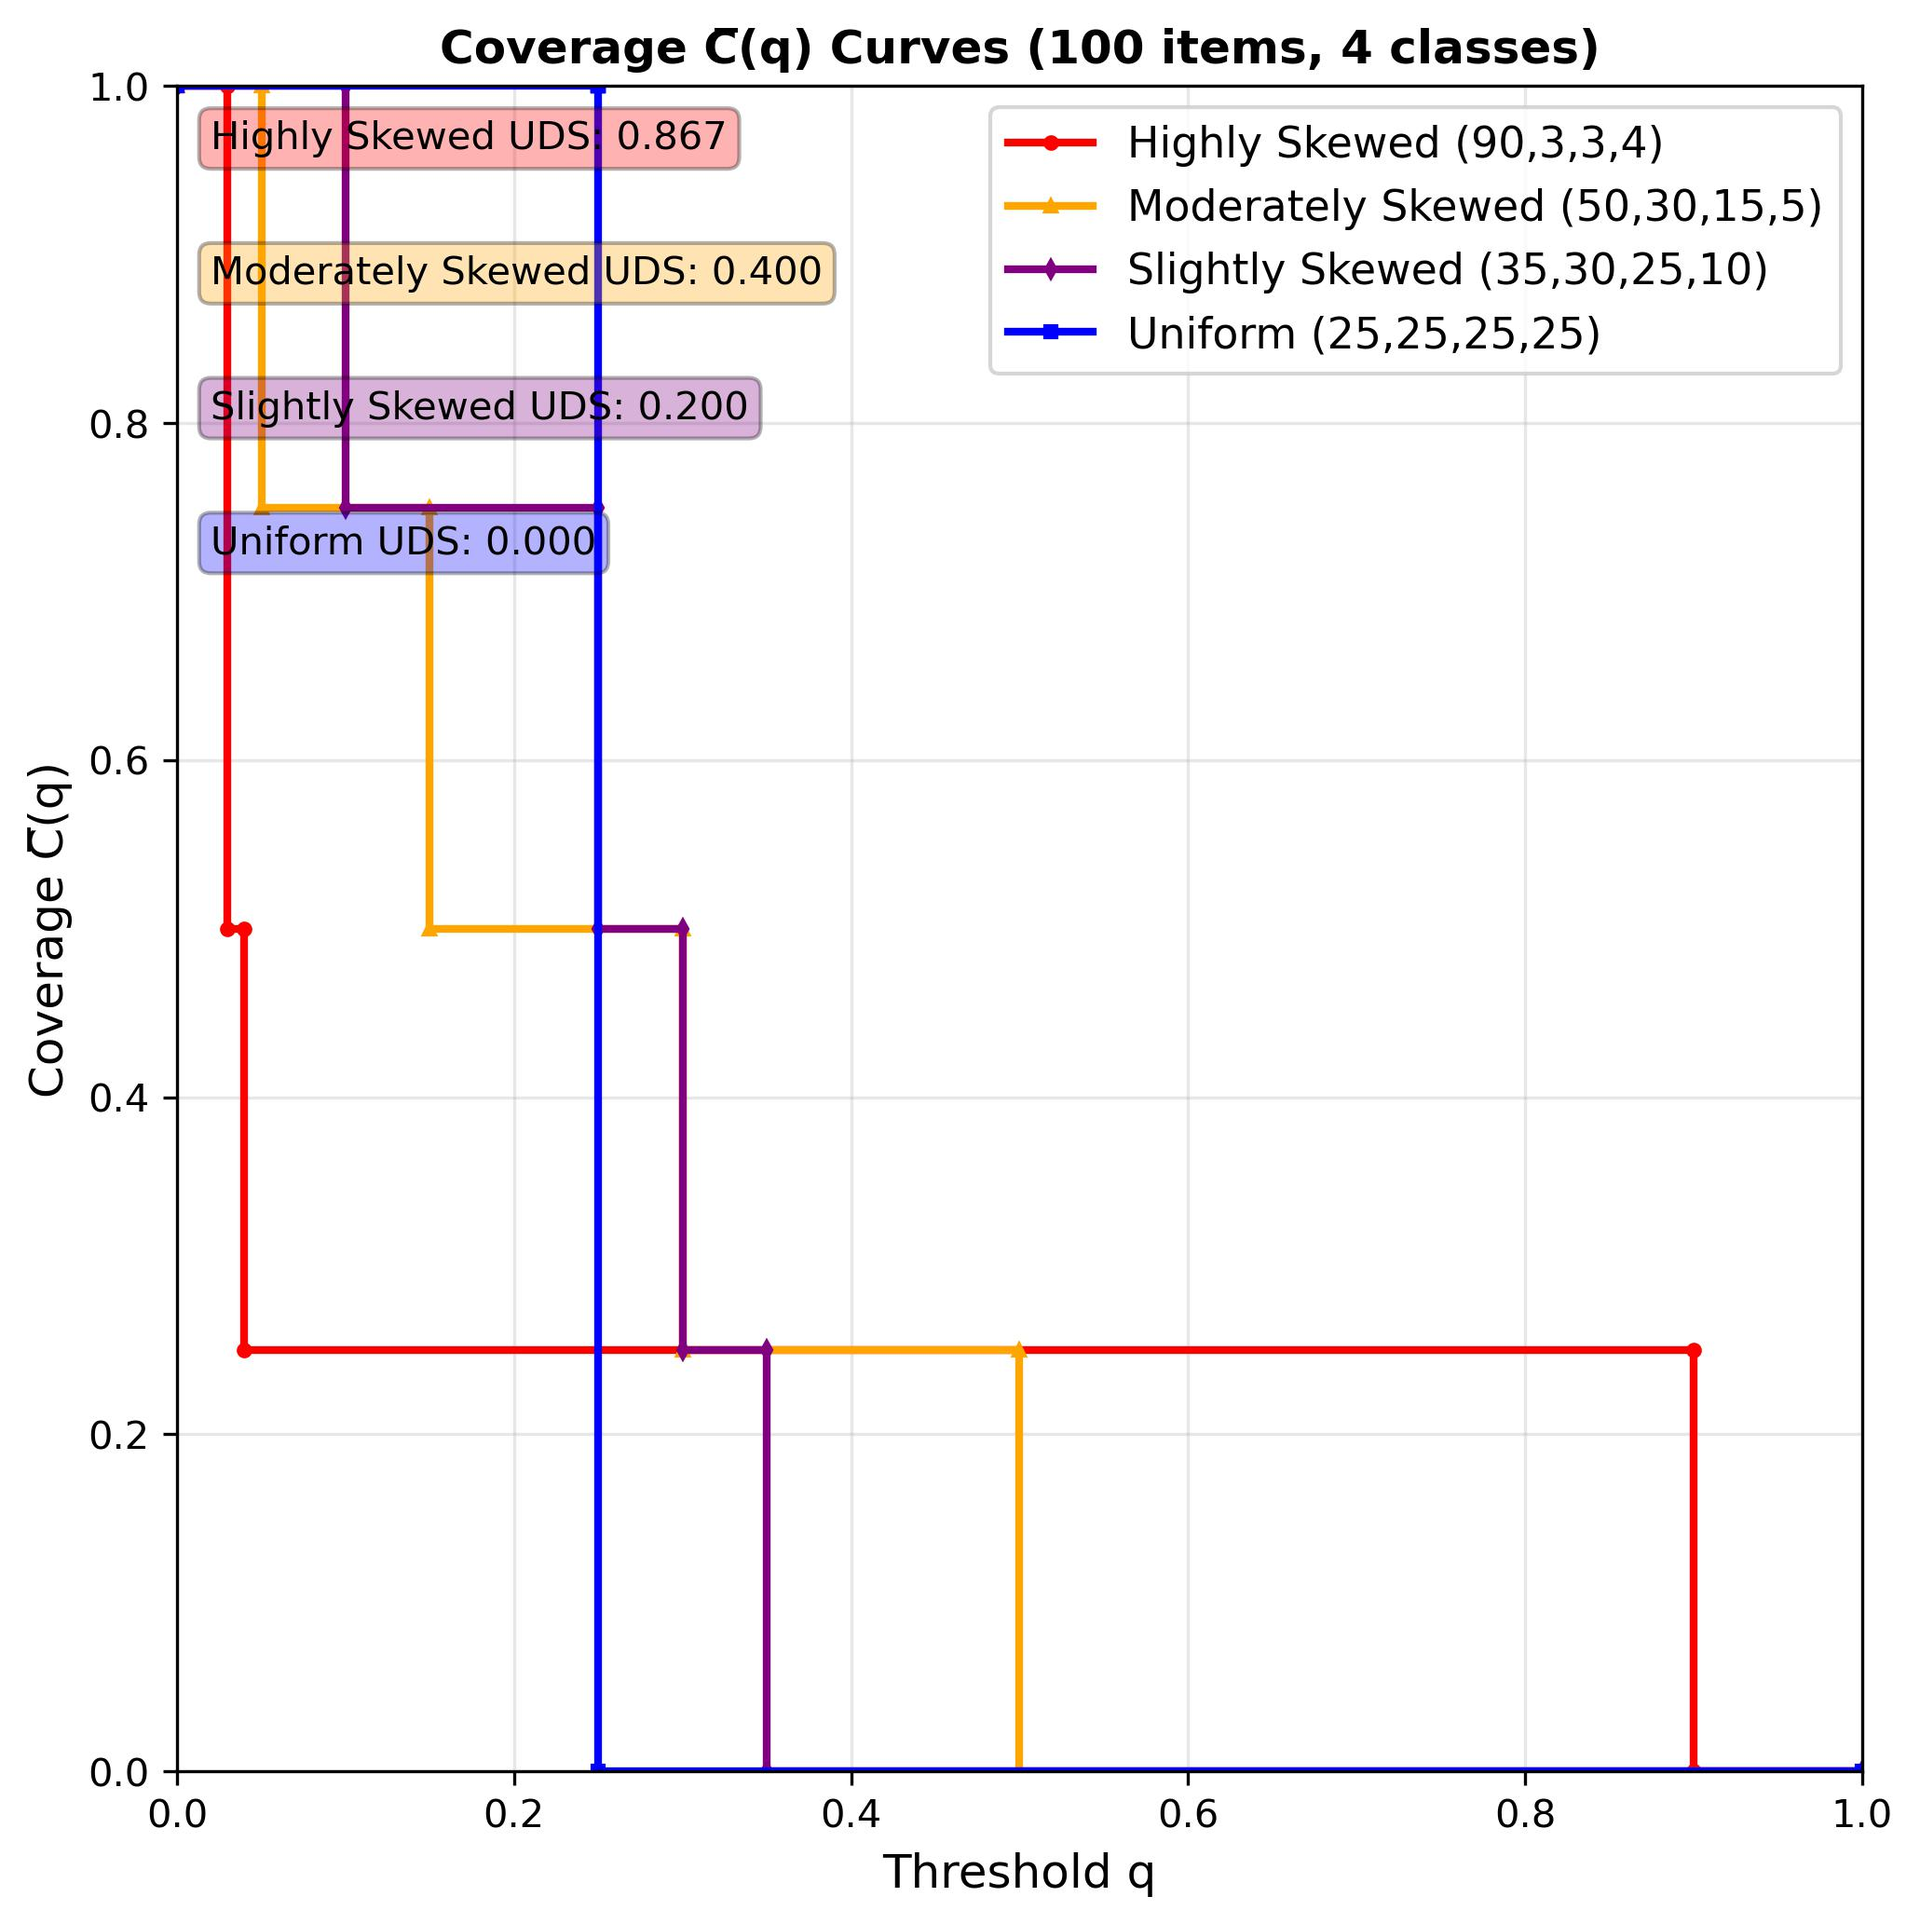
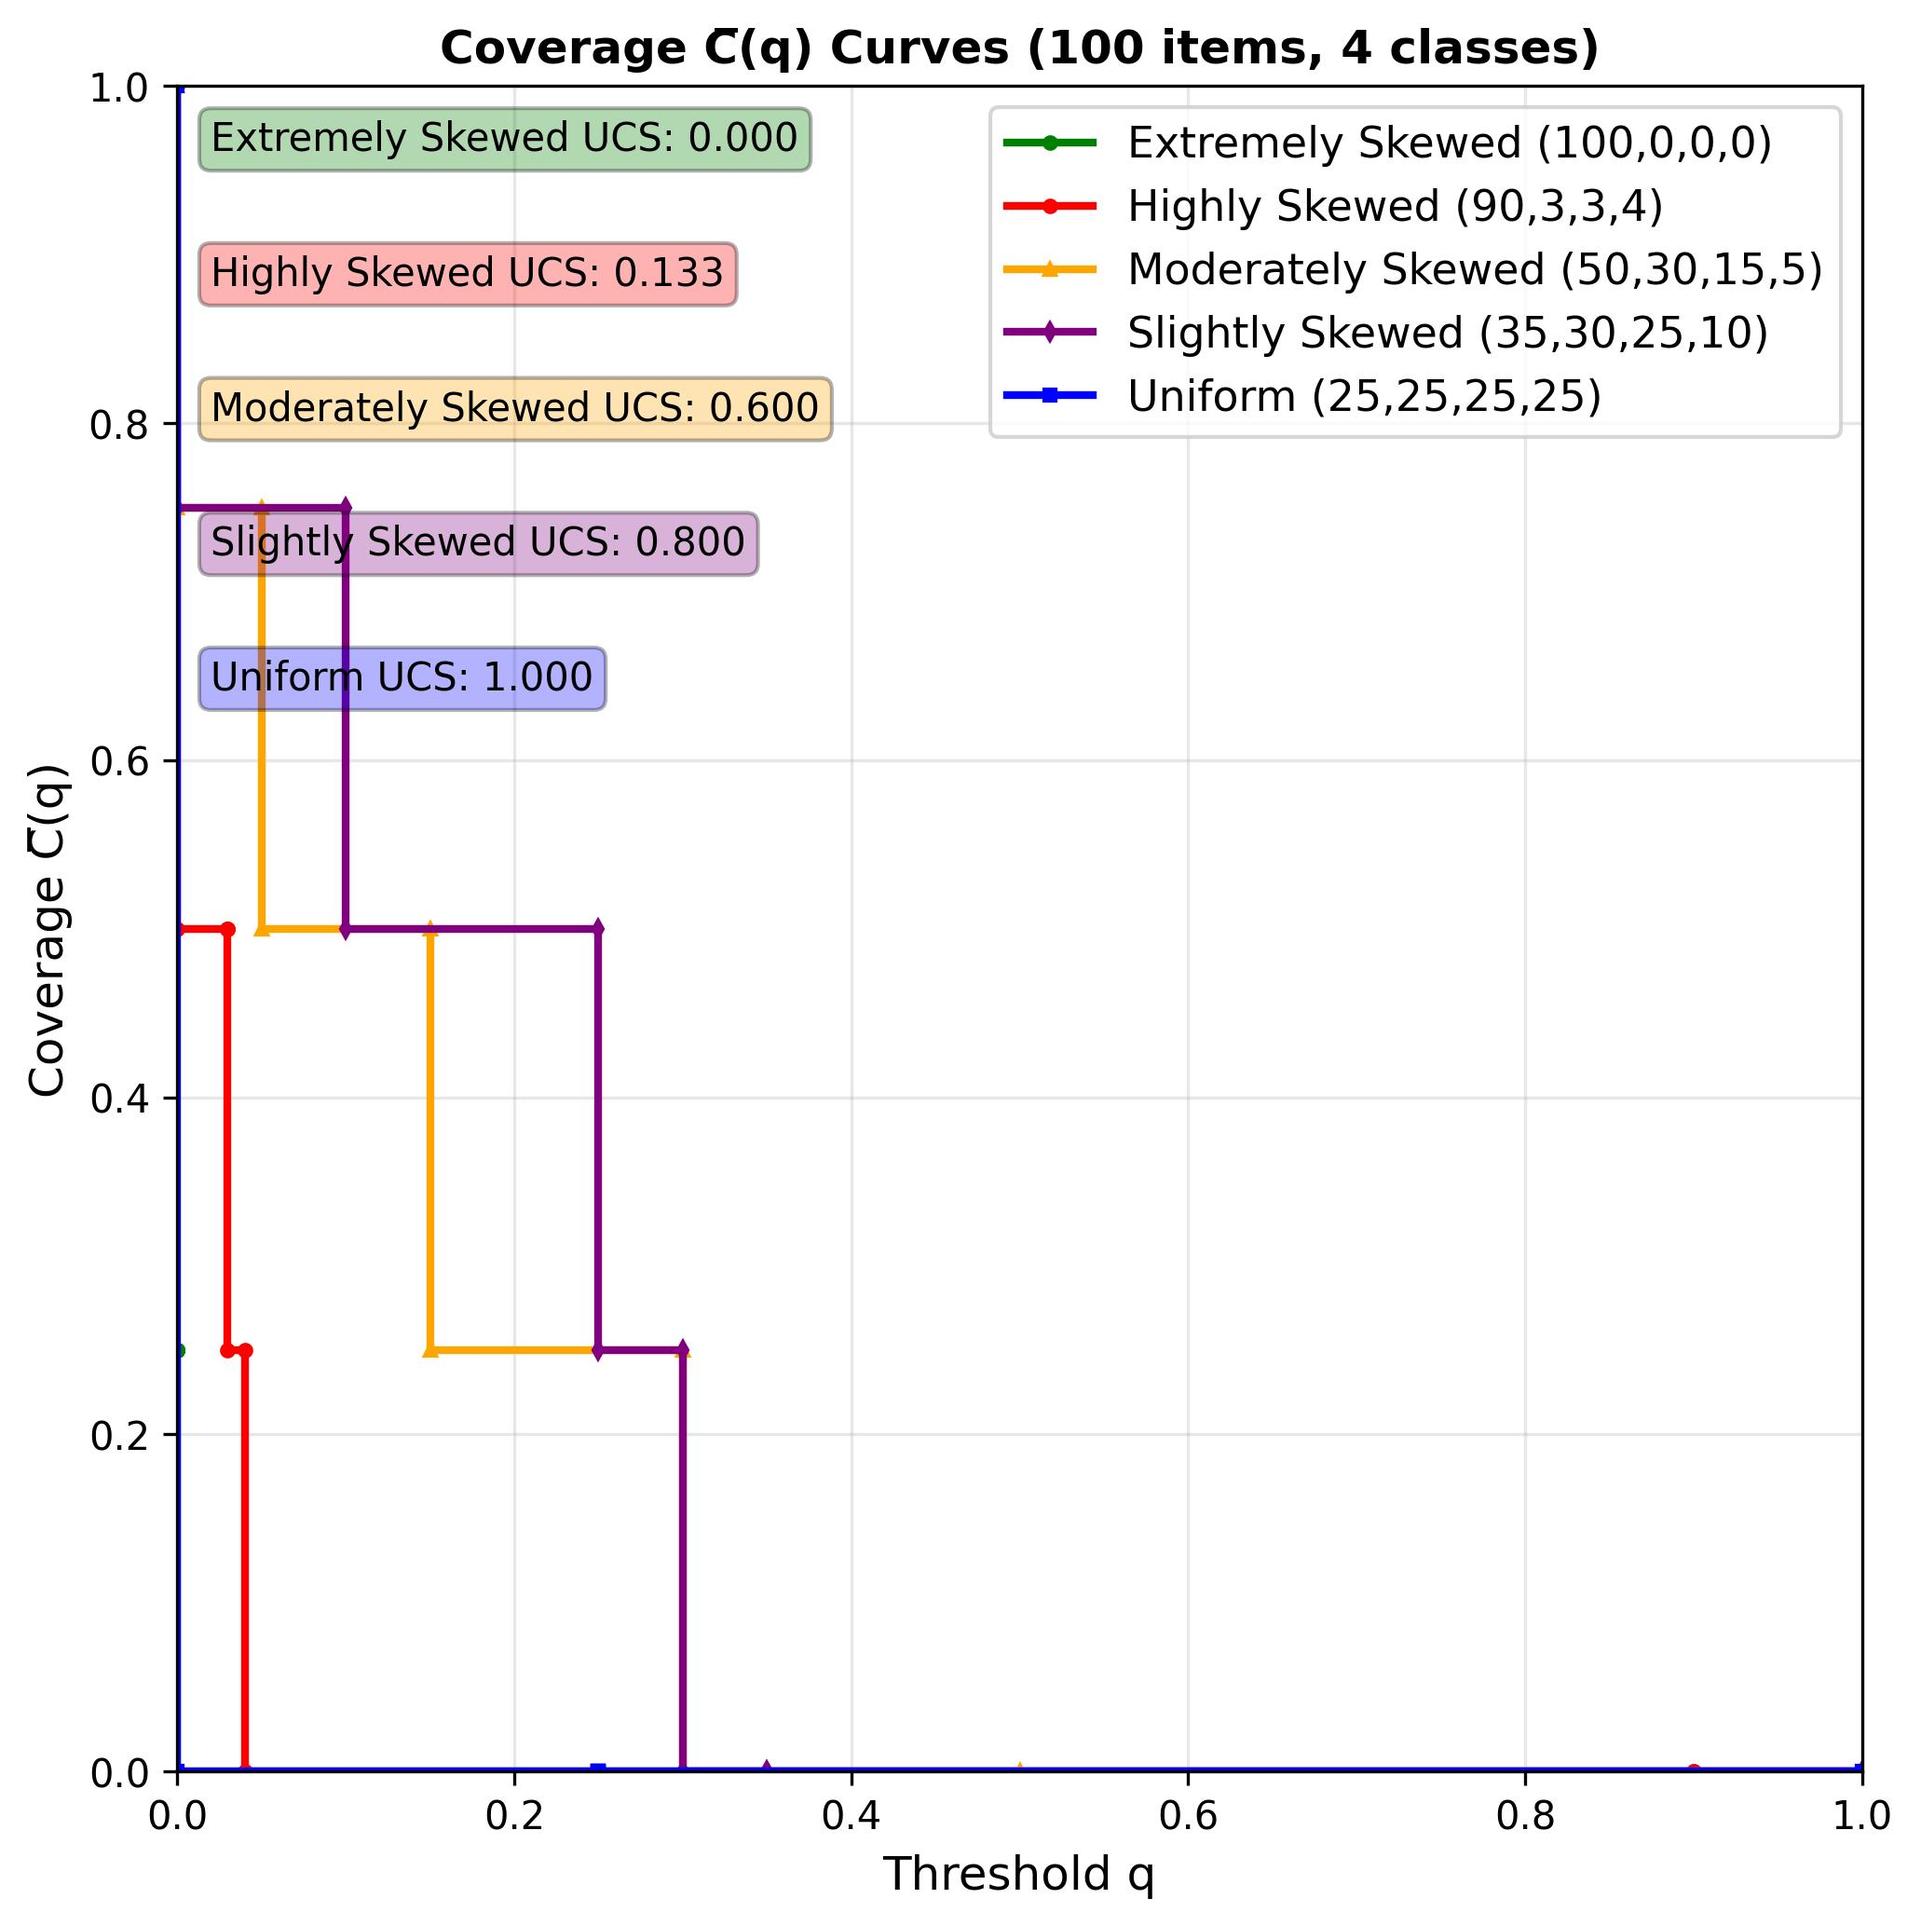
latest; boundary conditions fixed by gemini

diff --git a/example_caq.py b/example_caq.py
@@ -35,11 +35,12 @@ def generate_coverage_curve(probs):
     return all_q_values, all_coverage_values
 
 
-def plot_coverage_at_q(probs_skewed, probs_skewed2, probs_skewed3, probs_uniform):
+def plot_coverage_at_q(probs_extreme, probs_skewed, probs_skewed2, probs_skewed3, probs_uniform):
     """
     Create a visualization comparing coverage-at-q curves for different distributions.
     """
     # Generate curve data
+    q_extreme, coverage_extreme = generate_coverage_curve(probs_extreme)
     q_skewed, coverage_skewed = generate_coverage_curve(probs_skewed)
     q_skewed2, coverage_skewed2 = generate_coverage_curve(probs_skewed2)
     q_skewed3, coverage_skewed3 = generate_coverage_curve(probs_skewed3)
@@ -49,6 +50,7 @@ def plot_coverage_at_q(probs_skewed, probs_skewed2, probs_skewed3, probs_uniform
     plt.figure(figsize=(7, 7))
     
     # Plot all curves
+    plt.plot(q_extreme, coverage_extreme, 'g-', linewidth=2, label='Extremely Skewed (100,0,0,0)', marker='o', markersize=3)
     plt.plot(q_skewed, coverage_skewed, 'r-', linewidth=2, label='Highly Skewed (90,3,3,4)', marker='o', markersize=3)
     plt.plot(q_skewed2, coverage_skewed2, 'orange', linewidth=2, label='Moderately Skewed (50,30,15,5)', marker='^', markersize=3)
     plt.plot(q_skewed3, coverage_skewed3, 'purple', linewidth=2, label='Slightly Skewed (35,30,25,10)', marker='d', markersize=3)
@@ -66,18 +68,21 @@ def plot_coverage_at_q(probs_skewed, probs_skewed2, probs_skewed3, probs_uniform
     plt.ylim(0, 1.0)
     
     # Add AUC-C@Q values as text
-    dfu_skewed = uniform_divergence_score(probs_skewed)
-    dfu_skewed2 = uniform_divergence_score(probs_skewed2)
-    dfu_skewed3 = uniform_divergence_score(probs_skewed3)
-    dfu_uniform = uniform_divergence_score(probs_uniform)
+    dfu_extreme = 1.0-uniform_divergence_score(probs_extreme)
+    dfu_skewed = 1.0-uniform_divergence_score(probs_skewed)
+    dfu_skewed2 = 1.0-uniform_divergence_score(probs_skewed2)
+    dfu_skewed3 = 1.0-uniform_divergence_score(probs_skewed3)
+    dfu_uniform = 1.0-uniform_divergence_score(probs_uniform)
     
-    plt.text(0.02, 0.98, f'Highly Skewed UDS: {dfu_skewed:.3f}', transform=plt.gca().transAxes, 
+    plt.text(0.02, 0.98, f'Extremely Skewed UCS: {dfu_extreme:.3f}', transform=plt.gca().transAxes, 
+             verticalalignment='top', bbox=dict(boxstyle='round', facecolor='green', alpha=0.3))
+    plt.text(0.02, 0.90, f'Highly Skewed UCS: {dfu_skewed:.3f}', transform=plt.gca().transAxes, 
              verticalalignment='top', bbox=dict(boxstyle='round', facecolor='red', alpha=0.3))
-    plt.text(0.02, 0.90, f'Moderately Skewed UDS: {dfu_skewed2:.3f}', transform=plt.gca().transAxes, 
+    plt.text(0.02, 0.82, f'Moderately Skewed UCS: {dfu_skewed2:.3f}', transform=plt.gca().transAxes, 
              verticalalignment='top', bbox=dict(boxstyle='round', facecolor='orange', alpha=0.3))
-    plt.text(0.02, 0.82, f'Slightly Skewed UDS: {dfu_skewed3:.3f}', transform=plt.gca().transAxes, 
+    plt.text(0.02, 0.74, f'Slightly Skewed UCS: {dfu_skewed3:.3f}', transform=plt.gca().transAxes, 
              verticalalignment='top', bbox=dict(boxstyle='round', facecolor='purple', alpha=0.3))
-    plt.text(0.02, 0.74, f'Uniform UDS: {dfu_uniform:.3f}', transform=plt.gca().transAxes, 
+    plt.text(0.02, 0.66, f'Uniform UCS: {dfu_uniform:.3f}', transform=plt.gca().transAxes, 
              verticalalignment='top', bbox=dict(boxstyle='round', facecolor='blue', alpha=0.3))
     
     plt.gca().set_aspect('equal', adjustable='box')
@@ -90,6 +95,7 @@ def plot_coverage_at_q(probs_skewed, probs_skewed2, probs_skewed3, probs_uniform
 if __name__ == "__main__":
     # Example Usage:
     # Different types of skewed distributions (100 items, 4 classes)
+    counts_extreme = Counter({'a': 100, 'b': 0, 'c': 0, 'd': 0})      # Highly skewed
     counts_skewed = Counter({'a': 90, 'b': 3, 'c': 3, 'd': 4})      # Highly skewed
     counts_skewed2 = Counter({'a': 50, 'b': 30, 'c': 15, 'd': 5})   # Moderately skewed
     counts_skewed3 = Counter({'a': 35, 'b': 30, 'c': 25, 'd': 10})  # Slightly skewed
@@ -97,6 +103,9 @@ if __name__ == "__main__":
     counts_uniform = Counter({'a': 25, 'b': 25, 'c': 25, 'd': 25})
 
     # Convert counts to probabilities for AUC-C@Q
+    total_extreme = sum(counts_extreme.values())
+    probs_extreme = {k: v / total_extreme for k, v in counts_extreme.items()}
+
     total_skewed = sum(counts_skewed.values())
     probs_skewed = {k: v / total_skewed for k, v in counts_skewed.items()}
 
@@ -109,22 +118,25 @@ if __name__ == "__main__":
     total_uniform = sum(counts_uniform.values())
     probs_uniform = {k: v / total_uniform for k, v in counts_uniform.items()}
 
+    print(f"--- Extremely Skewed Distribution (Total Items: {sum(counts_extreme.values())}) ---")
+    print(f"C(0): {coverage_at_q(counts_extreme, 0):.3f}")
+    print(f"UCS: {uniform_divergence_score(probs_extreme):.3f}\n")
     print(f"--- Highly Skewed Distribution (Total Items: {sum(counts_skewed.values())}) ---")
     print(f"C(0): {coverage_at_q(counts_skewed, 0):.3f}")
-    print(f"UDS: {uniform_divergence_score(probs_skewed):.3f}\n")
+    print(f"UCS: {uniform_divergence_score(probs_skewed):.3f}\n")
 
     print(f"--- Moderately Skewed Distribution (Total Items: {sum(counts_skewed2.values())}) ---")
     print(f"C(0): {coverage_at_q(counts_skewed2, 0):.3f}")
-    print(f"UDS: {uniform_divergence_score(probs_skewed2):.3f}\n")
+    print(f"UCS: {uniform_divergence_score(probs_skewed2):.3f}\n")
 
     print(f"--- Slightly Skewed Distribution (Total Items: {sum(counts_skewed3.values())}) ---")
     print(f"C(0): {coverage_at_q(counts_skewed3, 0):.3f}")
-    print(f"UDS: {uniform_divergence_score(probs_skewed3):.3f}\n")
+    print(f"UCS: {uniform_divergence_score(probs_skewed3):.3f}\n")
 
     print(f"--- Uniform Distribution (Total Items: {sum(counts_uniform.values())}) ---")
     print(f"C(0): {coverage_at_q(counts_uniform, 0):.3f}")
-    print(f"UDS: {uniform_divergence_score(probs_uniform):.3f}\n")
+    print(f"UCS: {uniform_divergence_score(probs_uniform):.3f}\n")
     
     # Create visualization
     print("Generating Coverage-at-Q visualization...")
-    plot_coverage_at_q(probs_skewed, probs_skewed2, probs_skewed3, probs_uniform)
+    plot_coverage_at_q(probs_extreme, probs_skewed, probs_skewed2, probs_skewed3, probs_uniform)

diff --git a/metrics.py b/metrics.py
@@ -1,35 +1,20 @@
 import math
 from collections import Counter
 
+# Using the corrected, simpler version of this function
 def coverage_at_k(counts: Counter, k: float, total_possible: int) -> float:
     """
     Calculates the proportion of possible categories with a count strictly greater than k.
-    This matches the convention that C(0) equals standard coverage (non-empty proportion).
-
-    Args:
-        counts: Counter object with category counts
-        k: Threshold value
-        total_possible: Total number of possible categories
-
-    Returns:
-        float: Proportion of categories with a count strictly greater than k
-
     """
     if total_possible == 0:
         return 0.0
-    # Count categories where the value is strictly greater than k
     count_greater_than_k = sum(1 for v in counts.values() if v > k)
     return count_greater_than_k / total_possible
 
+
 def auc_catk(counts: Counter, total_possible: int) -> float:
     """
-    Normalized AUC-C(K) up to the Even Point (strict C(K) with "> k").
-
-    Steps:
-    - Compute Even Point = floor(total_items / number_of_observed_categories)
-    - Observed area: sum_{k=0}^{EvenPoint-1} C(K)
-    - Ideal area (uniform): EvenPoint * (number_of_observed_categories / total_possible)
-    - Return observed / ideal ∈ [0,1]
+    Calculates the standard normalized AUC-C(K) up to the Even Point.
 
     Args:
         counts: Counter object with category counts
@@ -37,32 +22,26 @@ def auc_catk(counts: Counter, total_possible: int) -> float:
 
     Returns:
         float: Normalized AUC-C(K) up to the Even Point
-
     """
-    if total_possible == 0:
-        return 0.0
-
-    if not counts:
+    if total_possible == 0 or not counts:
         return 0.0
 
     total_items = sum(counts.values())
-    num_observed_categories = len(counts)
 
-    if num_observed_categories == 0:
+    # BUG FIX 1: Use total_possible to calculate the even point.
+    if total_possible == 0: # Avoid division by zero
         return 0.0
+    even_point = math.floor(total_items / total_possible)
 
-    even_point = math.floor(total_items / num_observed_categories)
-
+    # If even_point is 0, the sum is over an empty range, so the area is 0.
     if even_point <= 0:
         return 0.0
 
     observed_area = sum(coverage_at_k(counts, k, total_possible) for k in range(even_point))
-    ideal_area = even_point * (num_observed_categories / total_possible)
 
-    if ideal_area == 0:
-        return 0.0
-
-    return observed_area / ideal_area
+    # BUG FIX 2: The ideal area for the standard definition is just even_point.
+    # The final value is the observed area divided by the ideal area.
+    return observed_area / even_point
 
 def coverage_at_q(probs: dict, q: float) -> float:
     """
@@ -82,21 +61,20 @@ def coverage_at_q(probs: dict, q: float) -> float:
     
     assert 0.0 <= q <= 1.0, "q must be in [0, 1]"
 
-    if q >= 1.0:
-        count_greater_equal_q = sum(1 for v in probs.values() if v >= q)
-    else:
-        count_greater_equal_q = sum(1 for v in probs.values() if v > q)
+    count_greater_equal_q = sum(1 for v in probs.values() if v > q)
     return count_greater_equal_q / len(probs)
 
 def deviation_from_uniform(probs: dict) -> float:
     """
     Calculates the deviation from the uniform distribution using the coverage-at-q metric C̅(q).
+    This is equivalent to 1 - UCS.
 
     Args:
         probs: Dictionary with category probabilities
 
     Returns:
-        float: \int_0^p (1 - C̅(q)) dq + \int_p^1 C̅(q) dq, where p = 1/number_of_categories
+        float: The normalized area of deviation. Should be 1.0 for a one-hot distribution
+               and 0.0 for a uniform distribution.
     """
     if not probs:
         return 0.0
@@ -121,12 +99,14 @@ def deviation_from_uniform(probs: dict) -> float:
         if width == 0:
             continue
 
-        # The value of C̅(q) is constant over the interval (q_start, q_end].
-        # We can evaluate its value at the endpoint of the interval.
-        coverage = coverage_at_q(probs, q_end)
+        # The value of C̅(q) is constant over the interval [q_start, q_end).
+        # We must evaluate its value at the beginning of the interval.
+        coverage = coverage_at_q(probs, q_start) # <-- THE FIX
 
         # Apply the correct rule based on which side of p_uniform the interval lies.
-        if q_end <= p_uniform:
+        # Note: We check the interval midpoint to handle cases where a breakpoint is exactly p_uniform
+        interval_midpoint = q_start + width / 2
+        if interval_midpoint < p_uniform:
             # This interval is in the first part of the integral: ∫(1 - C̅(q)) dq
             raw_area += (1 - coverage) * width
         else:
